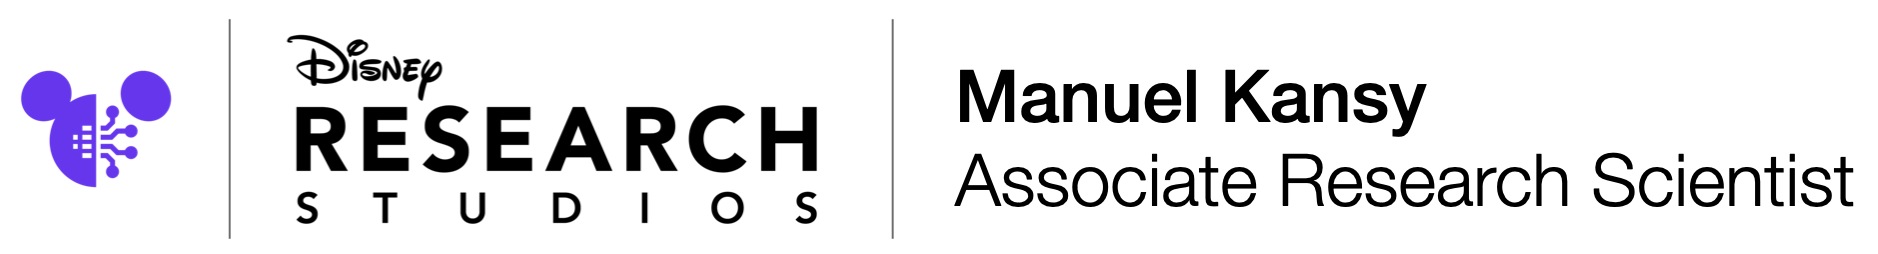
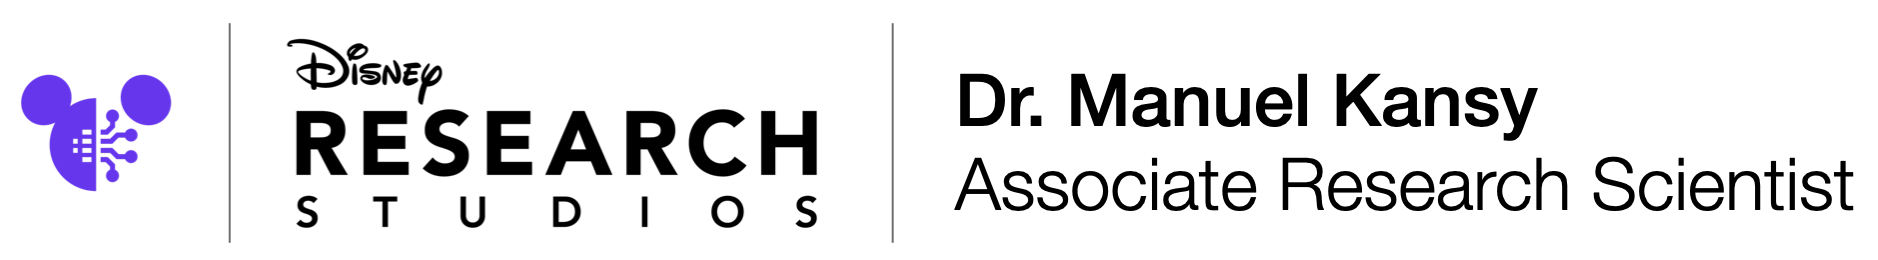
Updated bio and titles.

diff --git a/_layouts/homelay.html b/_layouts/homelay.html
@@ -4,7 +4,7 @@ layout: default
 
 <div class="row">
   <div class="col-lg-8 col-lg-push-4">
-		<h1>Manuel Kansy <td>
+		<h1>Dr. Manuel Kansy <td>
         	 <a style="padding-left:10px;" href="mailto:manuel.kansy@disneyresearch.com"><i class="fa fa-envelope-square" style="font-size: 1.em;"></i></a></li>
 			 <a style="padding-left:10px;" href="https://scholar.google.com/citations?user=DDNXeM8AAAAJ&hl"><i class="ai ai-google-scholar-square" style="font-size: 1.em;"></i></a></li>
 	  		 <a style="padding-left:10px;" href="https://www.linkedin.com/in/manuel-kansy/"><i class="fa-brands fa-linkedin" style="font-size: 1.em;"></i></a></li>

diff --git a/_pages/home.md b/_pages/home.md
@@ -7,10 +7,10 @@ permalink: /
 
 I am an associate research scientist at [DisneyResearch\|Studios](https://studios.disneyresearch.com/). Specifically, I am part of the Facial VFX research team led by [Dr. Derek Bradley](https://people.inf.ethz.ch/~bradleyd/).
 
-Previously, from 2021 to 2024, I was a PhD student at the [Computer Graphics Laboratory at ETH Zurich](https://cgl.ethz.ch/) in cooperation with [DisneyResearch\|Studios](https://studios.disneyresearch.com/), where I was supervised by [Prof. Markus Gross](https://cgl.ethz.ch/people/grossm/) and [Dr. Romann M. Weber](https://randomwalk.blog/about-me/).
+Previously, from 2021 to 2024, I completed my PhD at the [Computer Graphics Laboratory at ETH Zurich](https://cgl.ethz.ch/) in cooperation with [DisneyResearch\|Studios](https://studios.disneyresearch.com/), where I was supervised by [Prof. Dr. Markus Gross](https://cgl.ethz.ch/people/grossm/) and [Dr. Romann M. Weber](https://randomwalk.blog/about-me/).
 My research interests include various areas of deep learning and especially generative modeling. 
 I always find it most fascinating and satisfying if I'm working on projects that interact with the environment in some way, i.e., where I can see/hear/feel its results.
 In recent years, I focused mostly on face-related image and video generation tasks.
 
-Before starting my PhD studies, I completed my master's degree in *Robotics, Cognition, Intelligence* at the Technical University of Munich. Thereby, I became really interested in deep learning and had the privilege to work on my master's thesis and several other projects in [Prof. Laura Leal-Taixé's Dynamic Vision and Learning Group](https://dvl.in.tum.de/).
+Before starting my PhD studies, I completed my master's degree in *Robotics, Cognition, Intelligence* at the Technical University of Munich. Thereby, I became really interested in deep learning and had the privilege to work on my master's thesis and several other projects in [Prof. Dr. Laura Leal-Taixé's Dynamic Vision and Learning Group](https://dvl.in.tum.de/).
 Prior to that, I did my bachelor's degree in *IT-Automotive* at the Baden-Wuerttemberg Cooperative State University (DHBW) Stuttgart in cooperation with Robert Bosch GmbH.
